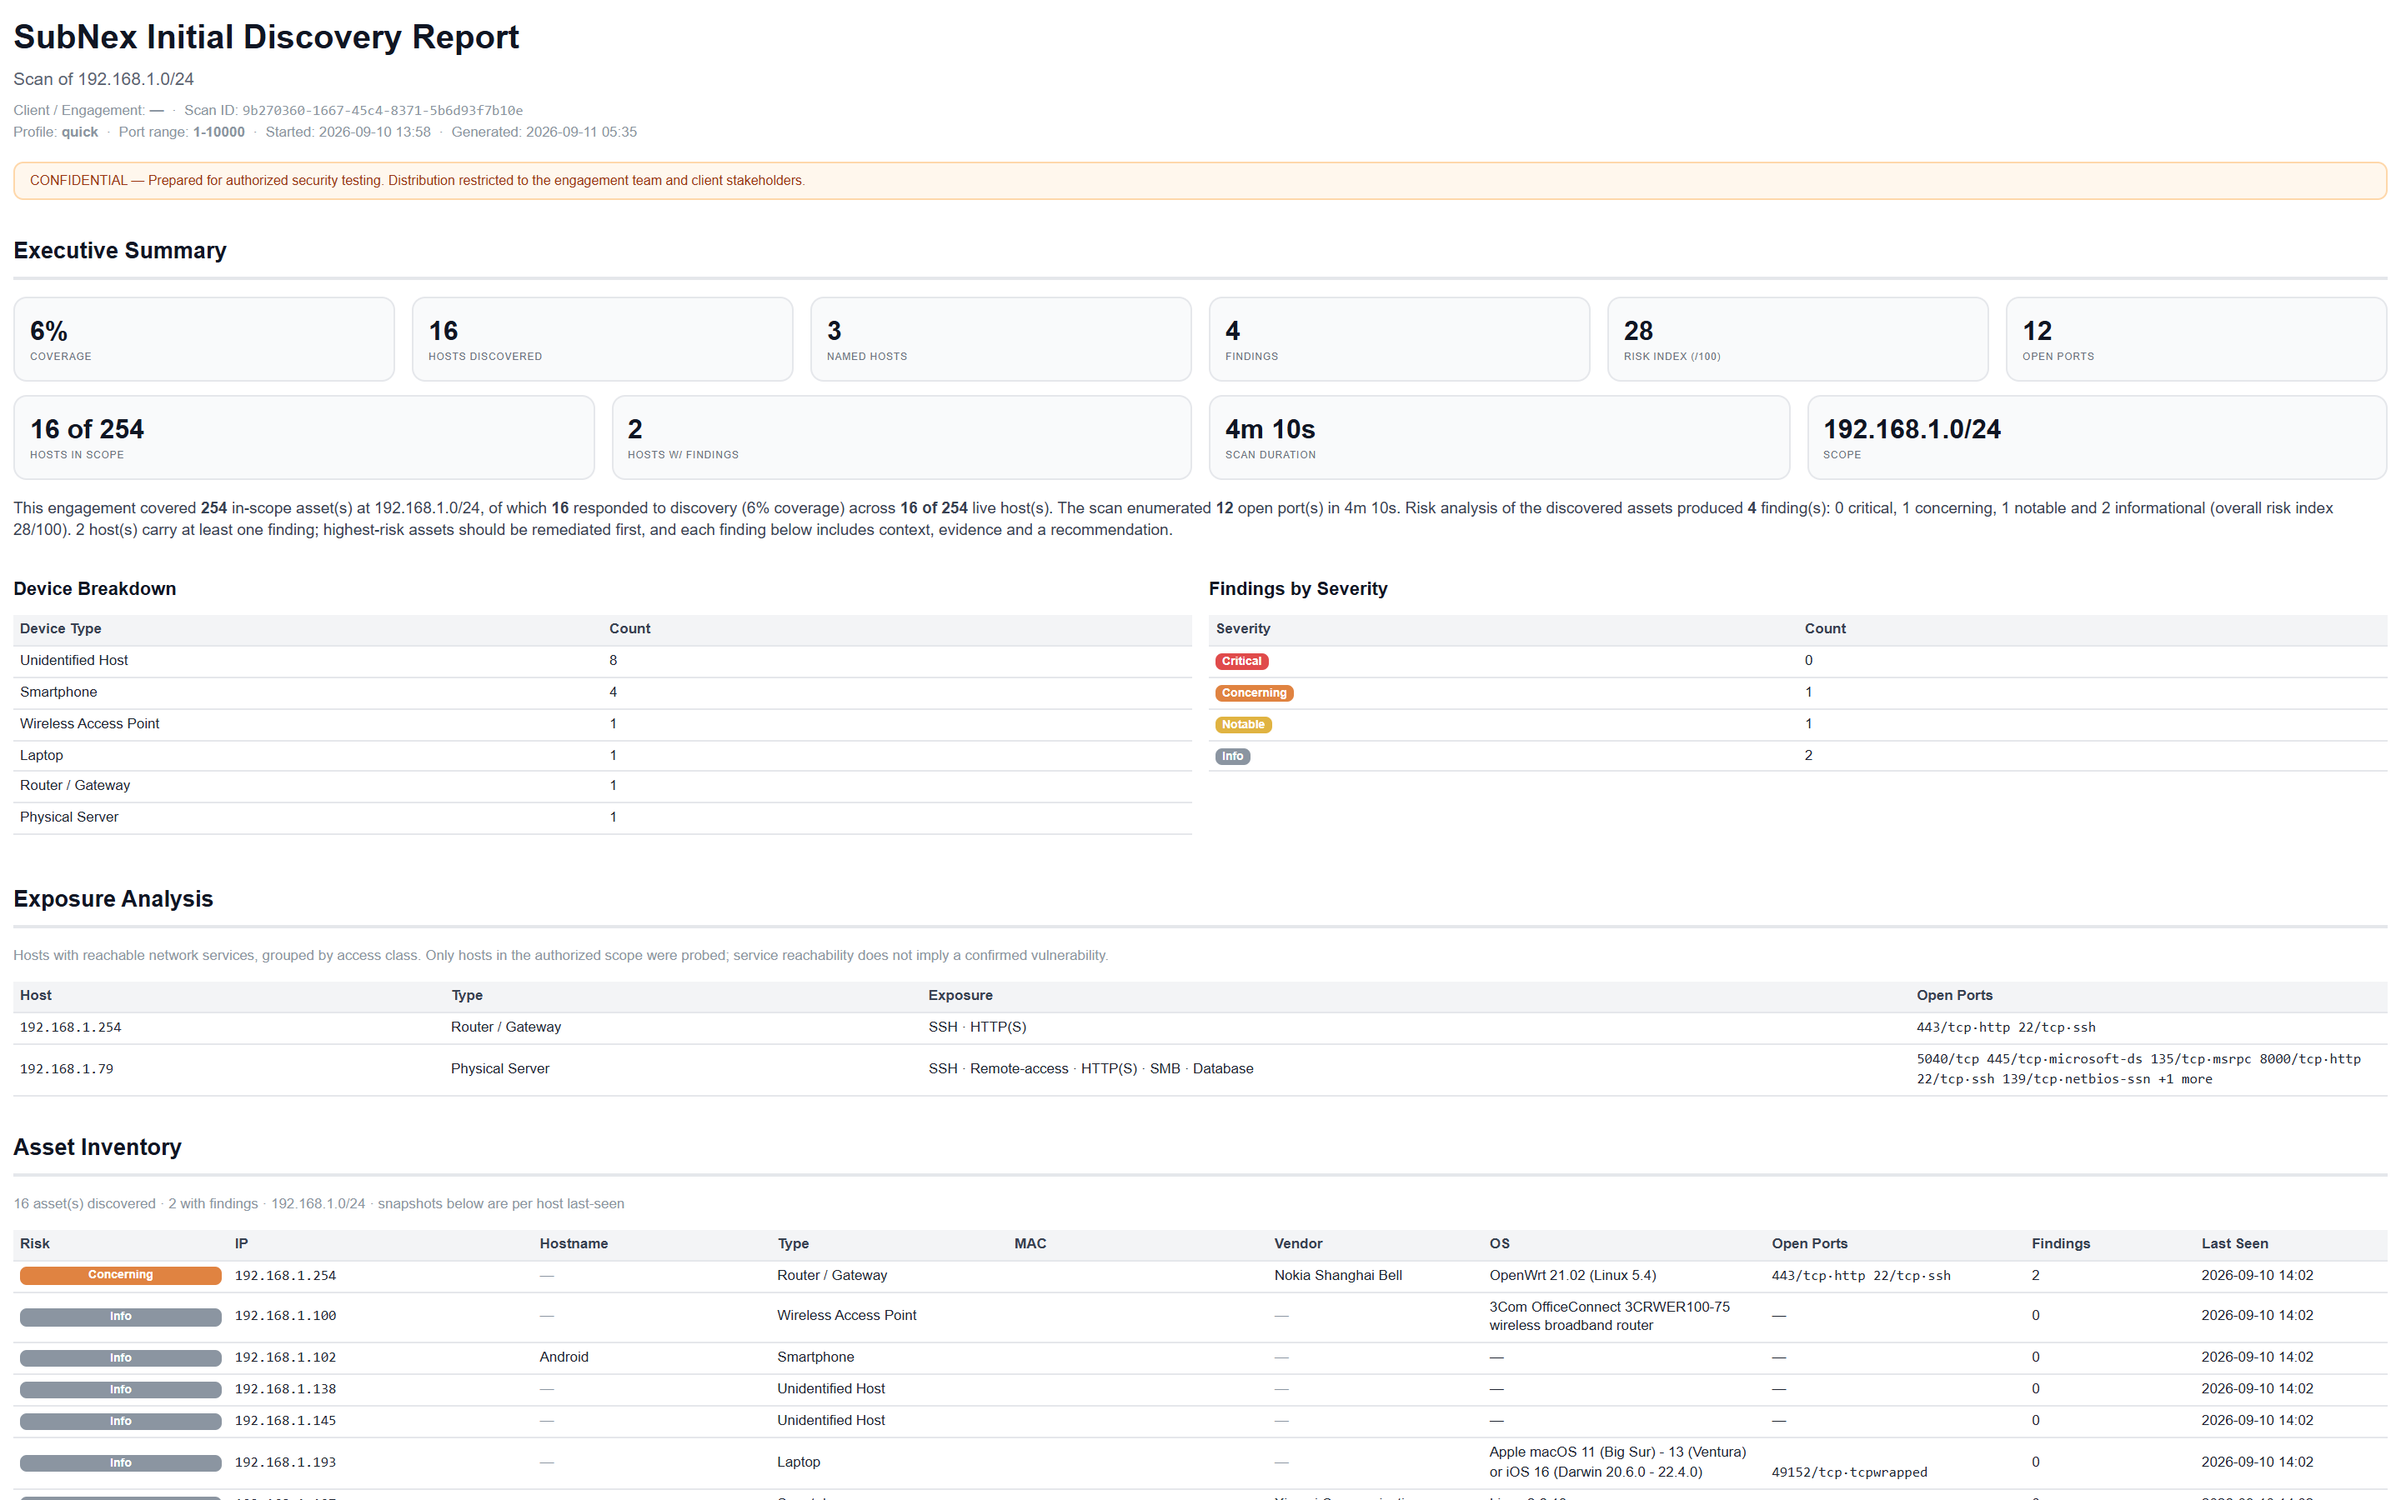
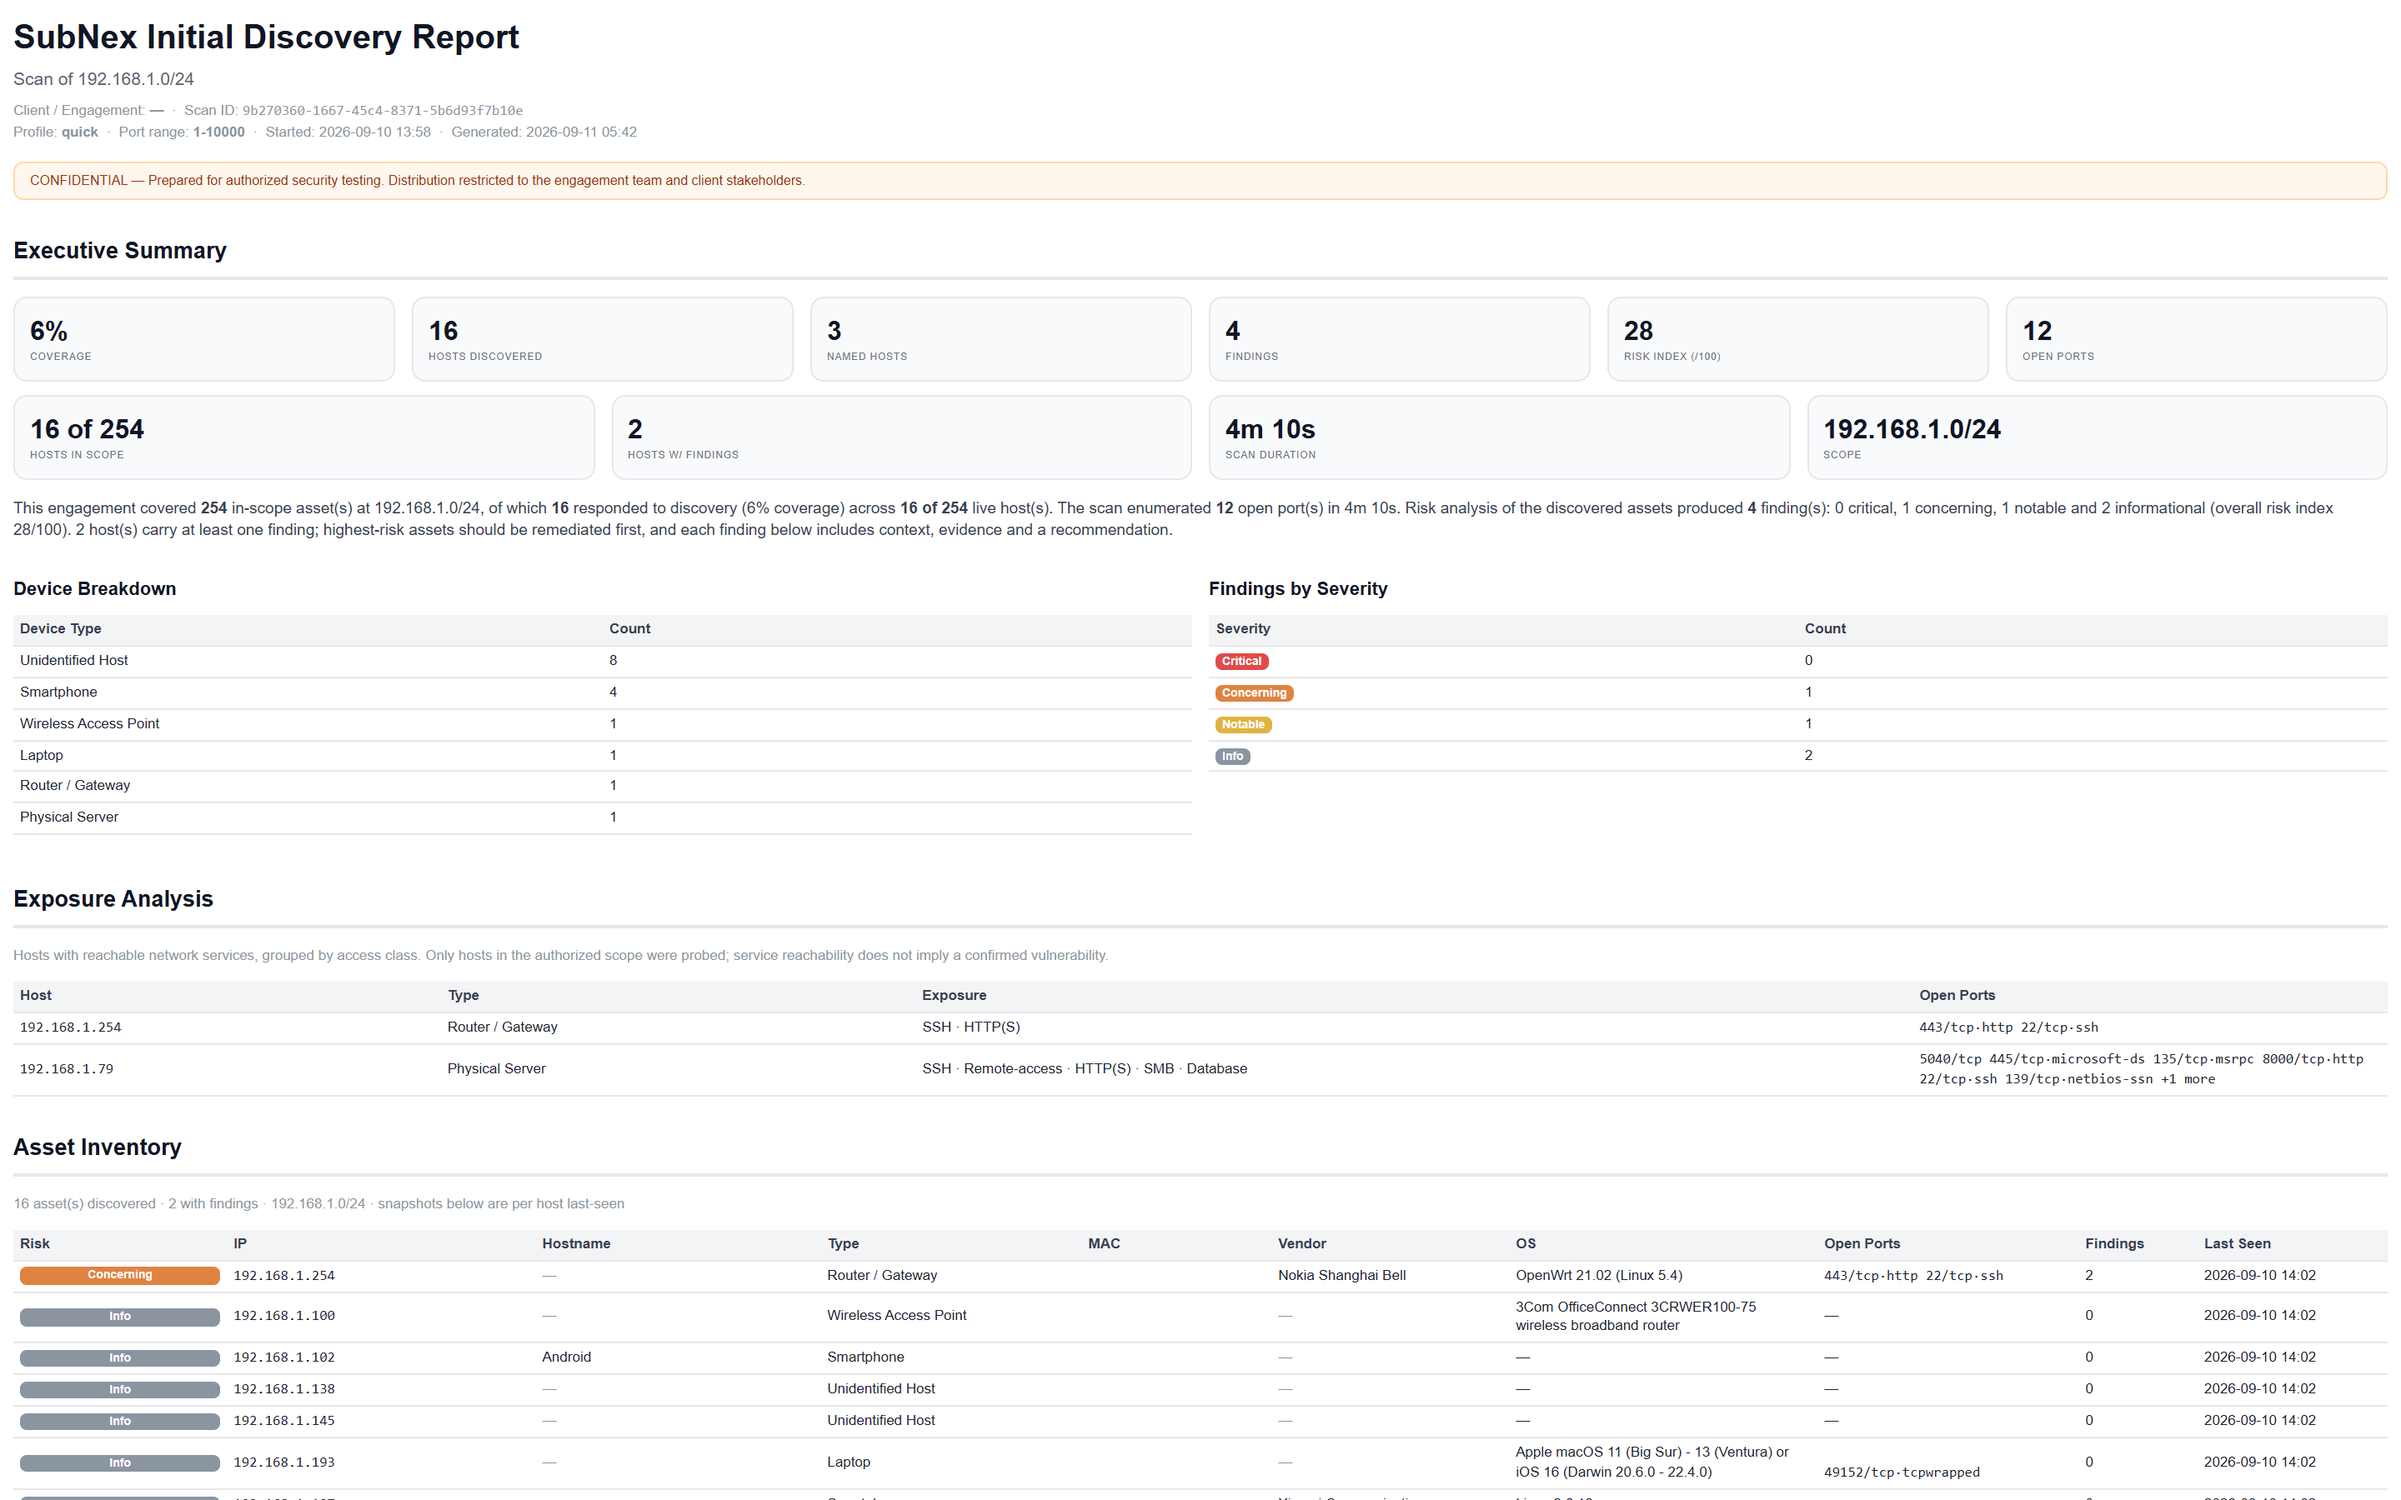
PDF report: keep table borders within A4 margin (MAC 8%, Findings 5%)
- WeasyPrint overflows fixed-layout tables when column widths live on <th>; moved to <colgroup>/<col> which WeasyPrint honors exactly

- removed nowrap on Last Seen so dates wrap inside the 8% column

- verified against WeasyPrint's real box layout: 0 boxes cross the content edge (733px)

diff --git a/backend/app/services/report_generator.py b/backend/app/services/report_generator.py
@@ -239,7 +239,7 @@ def _build_html(scan, hosts, findings, ports_lookup, engagement=None) -> str:
           <td>{_esc(h.os_guess or "—")}</td>
           <td>{cells_for_open_ports(_open_ports_for(h, ports_lookup))}</td>
           <td>{len([f for f in reported if f.host_id and str(f.host_id) == str(h.id)])}</td>
-          <td class="nowrap">{_esc(h.last_seen.strftime("%Y-%m-%d %H:%M") if getattr(h, "last_seen", None) else "—")}</td>
+          <td>{_esc(h.last_seen.strftime("%Y-%m-%d %H:%M") if getattr(h, "last_seen", None) else "—")}</td>
         </tr>"""
         for h in sorted(hosts, key=lambda x: (SEVERITY_ORDER.get(worst.get(str(x.id), "info"), 9), str(x.ip)))
     )
@@ -248,10 +248,13 @@ def _build_html(scan, hosts, findings, ports_lookup, engagement=None) -> str:
   <p class="meta">{len(hosts)} asset(s) discovered · {with_findings} with findings · {
       _esc(', '.join(scan.targets))} · snapshots below are per host last-seen</p>
   <table>
+    <colgroup><col style="width:9%"/><col style="width:13%"/><col style="width:12%"/>
+      <col style="width:11%"/><col style="width:8%"/><col style="width:10%"/>
+      <col style="width:13%"/><col style="width:11%"/><col style="width:5%"/><col style="width:8%"/></colgroup>
     <thead><tr>
-      <th style="width:9%">Risk</th><th style="width:13%">IP</th><th style="width:10%">Hostname</th>
-      <th style="width:10%">Type</th><th style="width:11%">MAC</th><th style="width:9%">Vendor</th>
-      <th style="width:12%">OS</th><th style="width:11%">Open Ports</th><th style="width:7%">Findings</th><th style="width:8%">Last Seen</th>
+      <th>Risk</th><th>IP</th><th>Hostname</th>
+      <th>Type</th><th>MAC</th><th>Vendor</th>
+      <th>OS</th><th>Open Ports</th><th>Findings</th><th>Last Seen</th>
     </tr></thead>
     <tbody>{inv_rows}</tbody>
   </table>"""
@@ -273,7 +276,8 @@ def _build_html(scan, hosts, findings, ports_lookup, engagement=None) -> str:
   the authorized scope were probed; service reachability does not imply a confirmed
   vulnerability.</p>
   <table>
-    <thead><tr><th style="width:18%">Host</th><th style="width:20%">Type</th><th style="width:42%">Exposure</th><th style="width:20%">Open Ports</th></tr></thead>
+    <colgroup><col style="width:18%"/><col style="width:20%"/><col style="width:42%"/><col style="width:20%"/></colgroup>
+    <thead><tr><th>Host</th><th>Type</th><th>Exposure</th><th>Open Ports</th></tr></thead>
     <tbody>{''.join(exposure_rows)}</tbody>
   </table>"""
 
